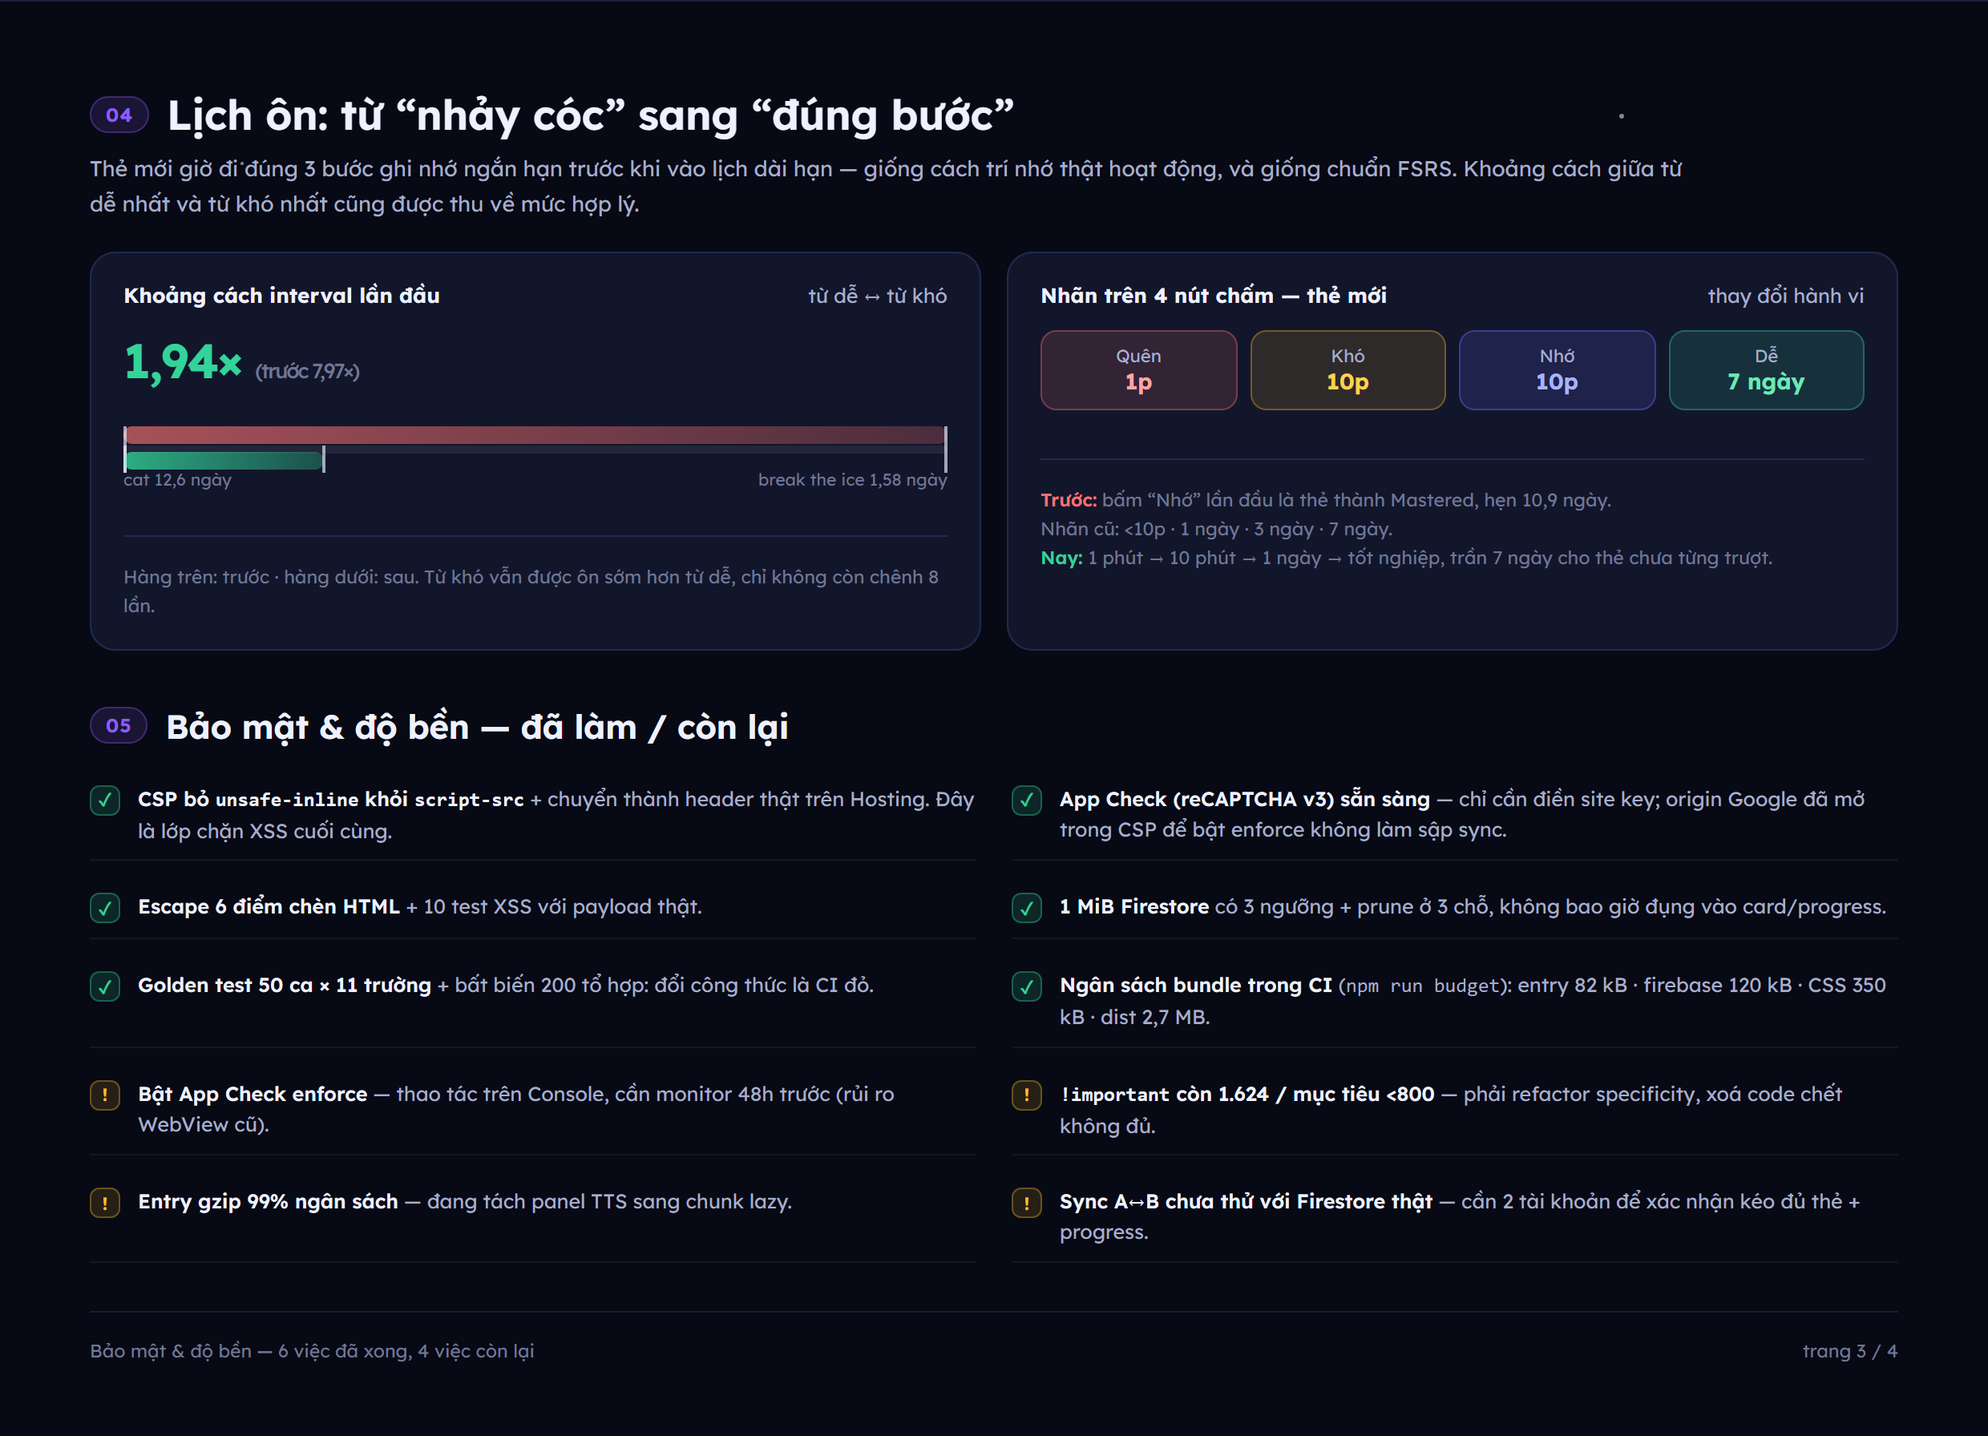
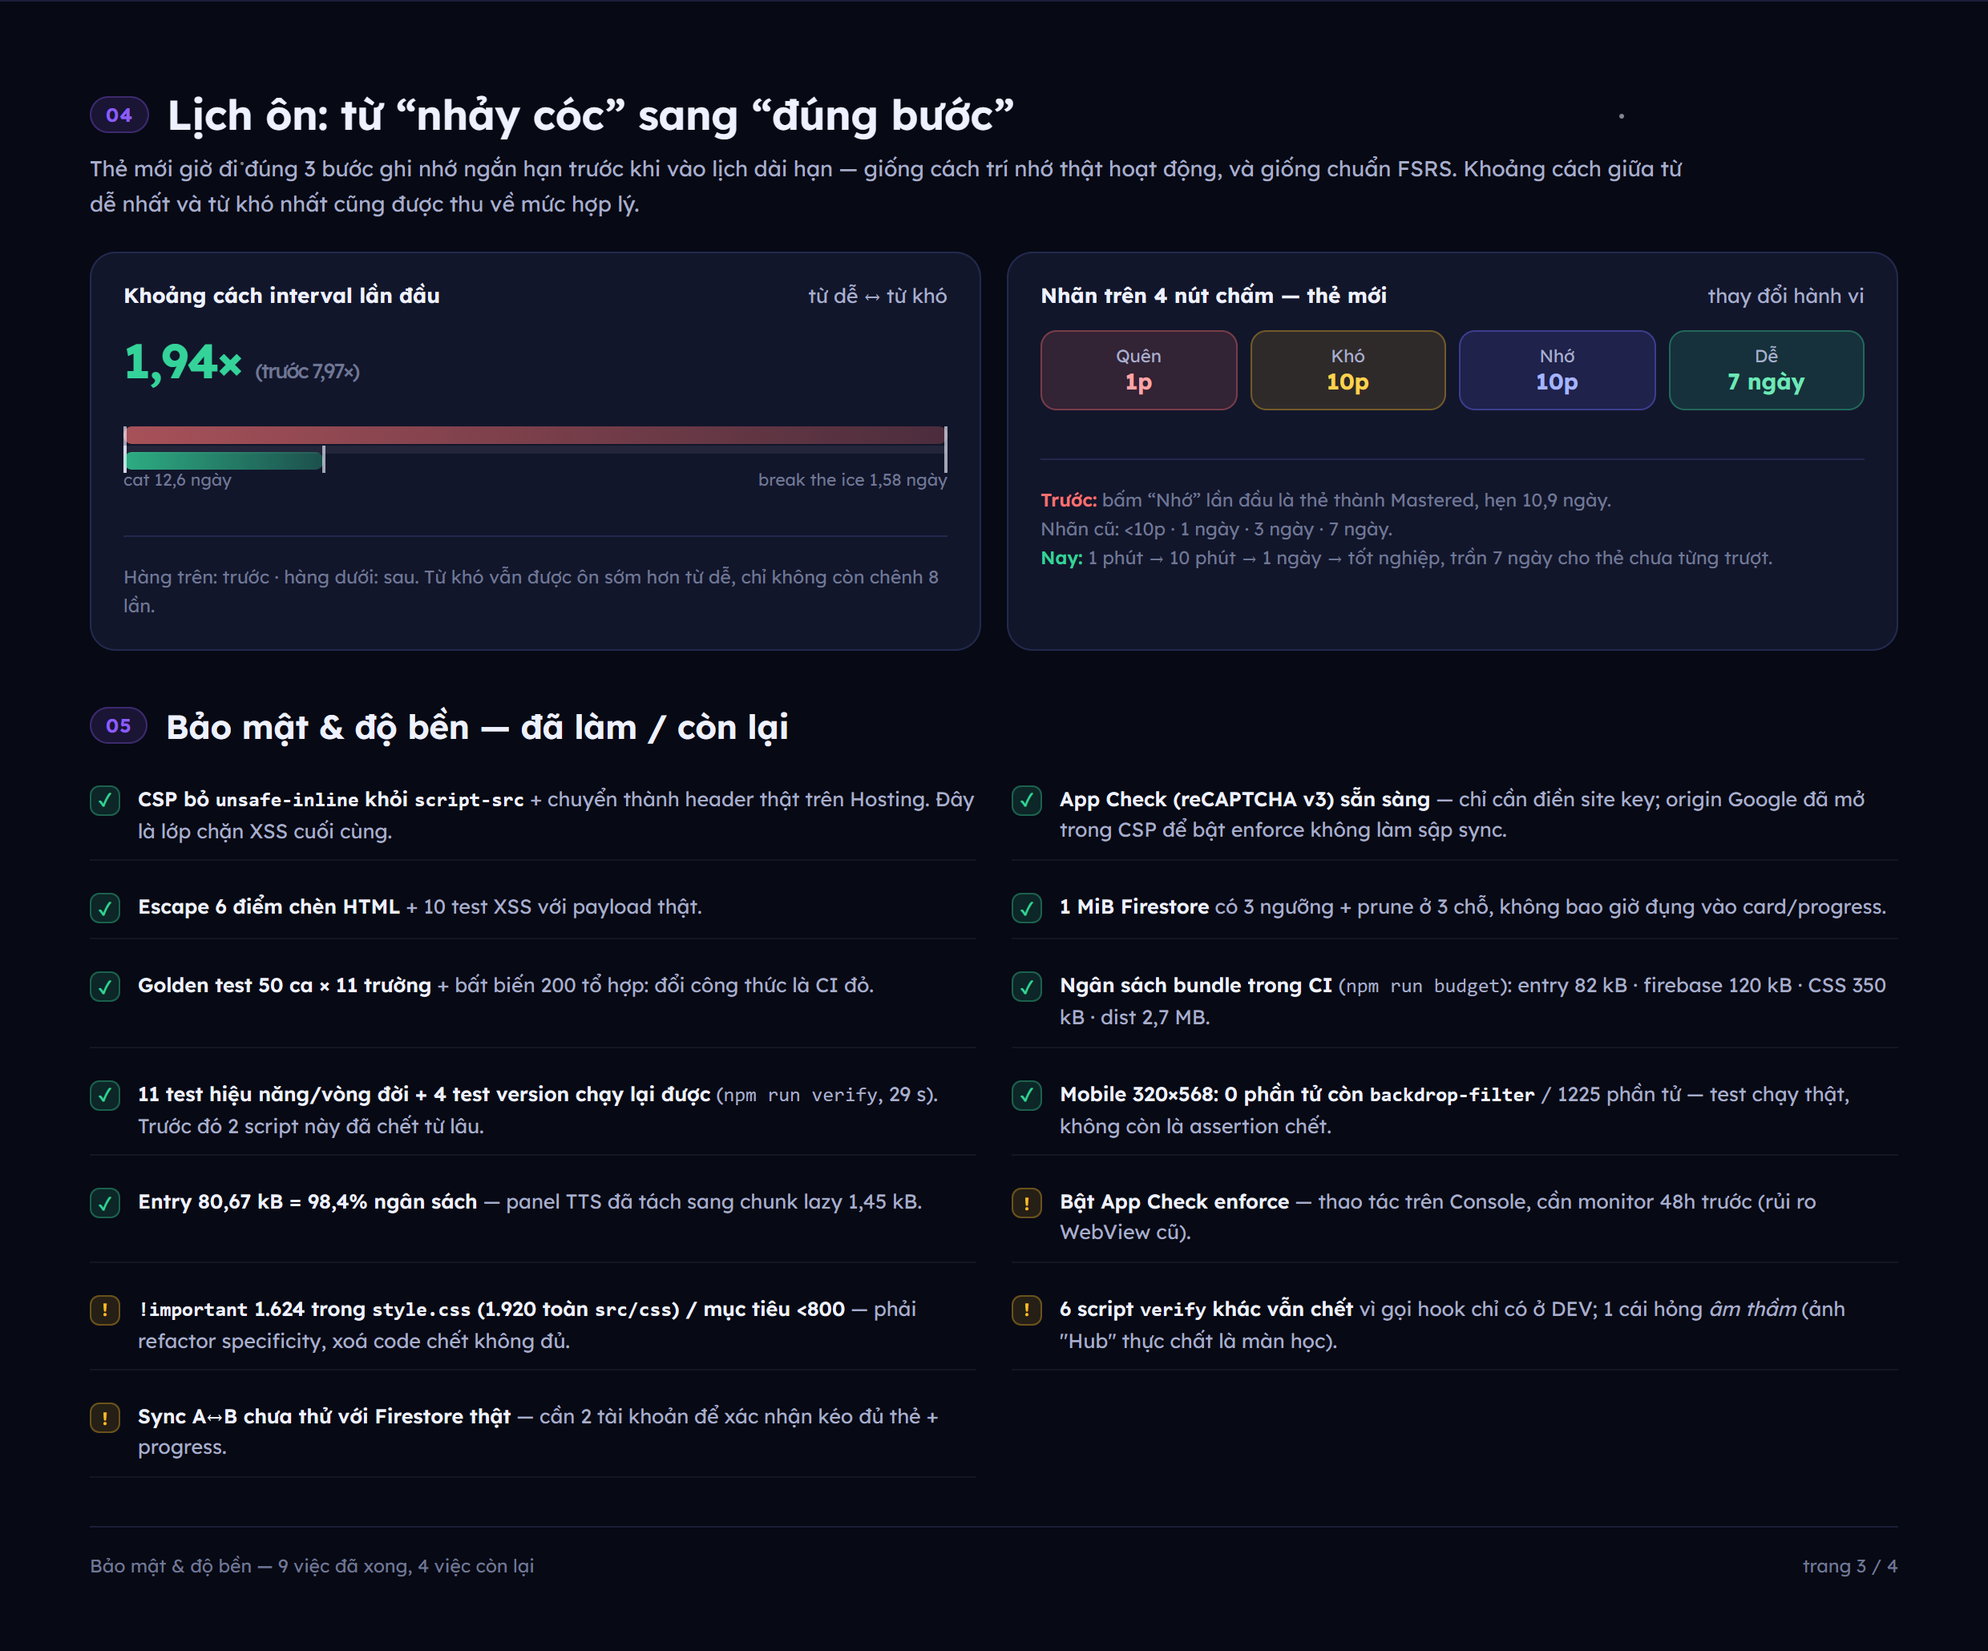
docs(report): cap nhat bao cao truc quan theo so lieu cuoi (18 commit, 203 test)
- Trang 1: 203 test (+75), bieu do test them cot 203; entry 76 -> 80,67 kB gzip
  (+6,1%, da tach panel TTS sang chunk lazy); precache 1.359 KiB; dist 2.096 KiB.
- Trang 3: bang bao mat 9 viec xong / 4 con lai, sap xep lai cho dung nhom.
  Them 3 muc da xong: npm run verify (11 + 4 test), mobile 320x568 0 phan tu con
  backdrop-filter tren 1225 phan tu (test nay truoc day CHET, nay chay that),
  entry 80,67 kB = 98,4% ngan sach. Them 1 muc con lai: 6 script verify khac van
  chet vi goi hook chi co o DEV.
- Trang 4: timeline 18 commit (them 678132a, cc3f65d, 7ec2465, c3f5a51, 1ce2457,
  e066222, 1476c29); muc "KHONG tuyen bo" cap nhat: entry +6,1% la chi phi tinh
  nang moi, 6 verifier khac chua sua.
- Sua 3 loi trinh bay tu phat hien khi xem anh: nhan trung tren bieu do test,
  tieu de ghi 5 loi trong khi co 6 the, va mot doan chu bi dan 2 cot do trung ten
  class .foot (page footer dung flex).

diff --git a/reports/upgrade-report.html b/reports/upgrade-report.html
@@ -154,28 +154,28 @@
     <div class="star" style="width:2px;height:2px;left:60px;top:330px;opacity:.3"></div>
 
     <div class="kicker"><span class="dot"></span> Báo cáo nâng cấp · 26/10/2026</div>
-    <h1>Ultimate Celestial Vocab<br><span class="grad">11 commit · 6 lỗi thật đã sửa · nhẹ hơn 14%</span></h1>
+    <h1>Ultimate Celestial Vocab<br><span class="grad">18 commit · 6 lỗi thật đã sửa · nhẹ hơn 14%</span></h1>
     <p class="sub">
         Mọi con số dưới đây là <b>đo được</b> (script trong repo hoặc Chrome headless), không phải ước lượng.
-        Mỗi thay đổi đều kèm test: từ <b>128</b> lên <b>195</b> test, và có golden test khoá toàn bộ engine FSRS
+        Mỗi thay đổi đều kèm test: từ <b>128</b> lên <b>203</b> test, và có golden test khoá toàn bộ engine FSRS
         để lần sau ai sửa công thức là CI đỏ ngay.
     </p>
 
     <div class="kpis">
         <div class="kpi" style="--c:var(--green)">
             <div class="label">Test tự động</div>
-            <div class="value">195 <small class="up">▲ +67</small></div>
-            <div class="note">128 → 142 → 166 → 195. Gồm 50 ca golden khoá 11 trường engine.</div>
+            <div class="value">203 <small class="up">▲ +75</small></div>
+            <div class="note">128 → 142 → 166 → 195 → 203. Gồm 50 ca golden khoá engine, 8 test a11y, 10 test TTS.</div>
         </div>
         <div class="kpi" style="--c:var(--cyan)">
             <div class="label">Precache PWA</div>
-            <div class="value">1.357 <small>KiB</small></div>
+            <div class="value">1.359 <small>KiB</small></div>
             <div class="note">Từ 1.906,7 KiB <span class="down">▼ 29%</span> — cài app nhẹ hơn ~549 KiB.</div>
         </div>
         <div class="kpi" style="--c:var(--violet)">
             <div class="label">Tổng bản build</div>
-            <div class="value">2.094 <small>KiB</small></div>
-            <div class="note">Từ 2.434,3 KiB <span class="down">▼ 14%</span> dù thêm App Check + TTS + self-host font.</div>
+            <div class="value">2.096 <small>KiB</small></div>
+            <div class="note">Từ 2.434,3 KiB <span class="down">▼ 14%</span> dù thêm App Check + TTS + self-host font + 6 test mới.</div>
         </div>
         <div class="kpi" style="--c:var(--amber)">
             <div class="label">Rủi ro mất dữ liệu</div>
@@ -217,7 +217,7 @@
                         <div class="bar before"><i style="width:100%"></i></div>
                         <div class="bar after"><i style="width:71.2%"></i></div>
                     </div>
-                    <div class="delta down">−29% <span style="color:var(--ink-faint);font-weight:400">1907→1357 KiB</span></div>
+                    <div class="delta down">−29% <span style="color:var(--ink-faint);font-weight:400">1907→1359 KiB</span></div>
                 </div>
                 <div class="row">
                     <div class="name"><b>Tổng dist</b>toàn bộ site</div>
@@ -225,7 +225,7 @@
                         <div class="bar before"><i style="width:100%"></i></div>
                         <div class="bar after"><i style="width:86%"></i></div>
                     </div>
-                    <div class="delta down">−14% <span style="color:var(--ink-faint);font-weight:400">2434→2094 KiB</span></div>
+                    <div class="delta down">−14% <span style="color:var(--ink-faint);font-weight:400">2434→2096 KiB</span></div>
                 </div>
                 <div class="row">
                     <div class="name"><b>reviewLogs (xấu nhất)</b>trần Firestore 1 MiB</div>
@@ -246,16 +246,16 @@
                 <div class="row">
                     <div class="name"><b>Entry JS (gzip)</b>chứa tính năng mới</div>
                     <div class="bars">
-                        <div class="bar before"><i style="width:93.4%"></i></div>
+                        <div class="bar before"><i style="width:94.2%"></i></div>
                         <div class="bar after"><i style="width:100%"></i></div>
                     </div>
-                    <div class="delta warn">+4,3% <span style="color:var(--ink-faint);font-weight:400">76→81,4 kB</span></div>
+                    <div class="delta warn">+6,1% <span style="color:var(--ink-faint);font-weight:400">76→80,7 kB</span></div>
                 </div>
             </div>
             <div class="legend">
                 <span><i style="background:linear-gradient(90deg,#f87171,#fb7185)"></i> trước nâng cấp</span>
                 <span><i style="background:linear-gradient(90deg,#22d3ee,#34d399)"></i> sau nâng cấp</span>
-                <span style="color:var(--ink-faint)">Dòng cuối là chỗ DUY NHẤT nặng lên — đang được tách chunk lazy.</span>
+                <span style="color:var(--ink-faint)">Dòng cuối là chỗ DUY NHẤT nặng lên — đã tách panel TTS sang chunk lazy, phần còn lại là chi phí tính năng mới.</span>
             </div>
         </div>
     </section>
@@ -268,7 +268,8 @@
                 <div class="step"><div class="val">128</div><div class="col" style="height:66px"></div><div class="cap">Baseline<br>trước nâng cấp</div></div>
                 <div class="step"><div class="val">142</div><div class="col" style="height:78px"></div><div class="cap">SRS leech<br>+ heuristics</div><span class="delta-tag">+14 test</span></div>
                 <div class="step"><div class="val">166</div><div class="col" style="height:100px"></div><div class="cap">Golden FSRS<br>+ dự báo 7 ngày</div><span class="delta-tag">+24 test</span></div>
-                <div class="step"><div class="val">195</div><div class="col" style="height:123px"></div><div class="cap">reviewLogs 1 MiB<br>+ TTS</div><span class="delta-tag">+29 test</span></div>
+                <div class="step"><div class="val">195</div><div class="col" style="height:118px"></div><div class="cap">reviewLogs 1 MiB<br>+ TTS</div><span class="delta-tag">+29 test</span></div>
+                <div class="step"><div class="val">203</div><div class="col" style="height:126px"></div><div class="cap">a11y P4<br>+ docs</div><span class="delta-tag">+8 test</span></div>
             </div>
         </div>
     </section>
@@ -425,14 +426,17 @@
             <div class="check"><span class="ic ok">✓</span><span><b>1 MiB Firestore</b> có 3 ngưỡng + prune ở 3 chỗ, không bao giờ đụng vào card/progress.</span></div>
             <div class="check"><span class="ic ok">✓</span><span><b>Golden test 50 ca × 11 trường</b> + bất biến 200 tổ hợp: đổi công thức là CI đỏ.</span></div>
             <div class="check"><span class="ic ok">✓</span><span><b>Ngân sách bundle trong CI</b> (<code>npm run budget</code>): entry 82 kB · firebase 120 kB · CSS 350 kB · dist 2,7 MB.</span></div>
+            <div class="check"><span class="ic ok">✓</span><span><b>11 test hiệu năng/vòng đời + 4 test version chạy lại được</b> (<code>npm run verify</code>, 29 s). Trước đó 2 script này đã chết từ lâu.</span></div>
+            <div class="check"><span class="ic ok">✓</span><span><b>Mobile 320×568: 0 phần tử còn <code>backdrop-filter</code></b> / 1225 phần tử — test chạy thật, không còn là assertion chết.</span></div>
+            <div class="check"><span class="ic ok">✓</span><span><b>Entry 80,67 kB = 98,4% ngân sách</b> — panel TTS đã tách sang chunk lazy 1,45 kB.</span></div>
             <div class="check"><span class="ic todo">!</span><span><b>Bật App Check enforce</b> — thao tác trên Console, cần monitor 48h trước (rủi ro WebView cũ).</span></div>
-            <div class="check"><span class="ic todo">!</span><span><b><code>!important</code> còn 1.624 / mục tiêu &lt;800</b> — phải refactor specificity, xoá code chết không đủ.</span></div>
-            <div class="check"><span class="ic todo">!</span><span><b>Entry gzip 99% ngân sách</b> — đang tách panel TTS sang chunk lazy.</span></div>
+            <div class="check"><span class="ic todo">!</span><span><b><code>!important</code> 1.624 trong <code>style.css</code> (1.920 toàn <code>src/css</code>) / mục tiêu &lt;800</b> — phải refactor specificity, xoá code chết không đủ.</span></div>
+            <div class="check"><span class="ic todo">!</span><span><b>6 script <code>verify</code> khác vẫn chết</b> vì gọi hook chỉ có ở DEV; 1 cái hỏng <i>âm thầm</i> (ảnh &quot;Hub&quot; thực chất là màn học).</span></div>
             <div class="check"><span class="ic todo">!</span><span><b>Sync A↔B chưa thử với Firestore thật</b> — cần 2 tài khoản để xác nhận kéo đủ thẻ + progress.</span></div>
         </div>
     </section>
 
-    <div class="foot"><span>Bảo mật &amp; độ bền — 6 việc đã xong, 4 việc còn lại</span><span>trang 3 / 4</span></div>
+    <div class="foot"><span>Bảo mật &amp; độ bền — 9 việc đã xong, 4 việc còn lại</span><span>trang 3 / 4</span></div>
 </div>
 
 <!-- ══════════════════════ PAGE 4 ══════════════════════ -->
@@ -455,7 +459,7 @@
     </section>
 
     <section>
-        <h2><span class="num">07</span> 11 commit, theo đúng thứ tự đã làm</h2>
+        <h2><span class="num">07</span> 18 commit, theo đúng thứ tự đã làm</h2>
         <div class="tl">
             <div class="item"><div class="sha">2390c23</div><div class="rail"><div class="node"></div></div>
                 <div class="body"><div class="t">Backup 3 lớp + backlog 36 task</div>
@@ -501,17 +505,46 @@
                 <div class="body"><div class="t">T2.4 + T2.5 — chặn trần 1 MiB + TTS minh bạch</div>
                 <div class="d">reviewLogs xấu nhất 1.180 → 330 KB; chọn giọng/tốc độ, badge nguồn, fallback một lần/phiên.</div>
                 <div class="m">+29 test</div></div></div>
+            <div class="item"><div class="sha">678132a</div><div class="rail"><div class="node"></div></div>
+                <div class="body"><div class="t">Báo cáo trực quan 4 trang (chính là tài liệu này)</div>
+                <div class="d">HTML + <code>tools/render_report.mjs</code> render từng trang bằng Chrome headless, font dùng chính woff2 của app nên ảnh khớp sản phẩm.</div>
+                <div class="m">tái lập: npm run report</div></div></div>
+            <div class="item"><div class="sha">cc3f65d</div><div class="rail"><div class="node"></div></div>
+                <div class="body"><div class="t">Sửa build bị hỏng do BOM UTF-8</div>
+                <div class="d">Mình ghi <code>package.json</code> bằng PowerShell 5.1 <code>Set-Content -Encoding utf8</code> → dính BOM → <code>vite-plugin-pwa</code> chết vì <code>JSON.parse</code>. Quét 8 file tracked, strip sạch.</div>
+                <div class="m">npm run build xanh lại</div></div></div>
+            <div class="item"><div class="sha">7ec2465</div><div class="rail"><div class="node"></div></div>
+                <div class="body"><div class="t">P4 — 6 lỗi a11y &amp; responsive</div>
+                <div class="d">aria-label + aria-live, <code>lang="en"</code> 3 chỗ, focus sau khi lật chỉ khi bàn phím, nhãn mobile hết cắt, safe-area.</div>
+                <div class="m">+8 test</div></div></div>
+            <div class="item"><div class="sha">c3f5a51</div><div class="rail"><div class="node"></div></div>
+                <div class="body"><div class="t">Tách panel TTS sang chunk lazy</div>
+                <div class="d">Entry 81,38 → 80,67 kB gzip; chunk 1,45 kB. Chứng minh bằng cách <i>chặn request chunk</i>: app vẫn chạy, panel vắng, 1 cảnh báo.</div>
+                <div class="m">98,4% ngân sách (trước 99,2%)</div></div></div>
+            <div class="item"><div class="sha">1ce2457</div><div class="rail"><div class="node"></div></div>
+                <div class="body"><div class="t">P5 — viết lại README theo code thật</div>
+                <div class="d">19 khẳng định sai/lỗi thời được sửa (test 77→203, Google Fonts, power-law, trần 21 ngày, sync ±3 phút…) + <code>docs/SMOKE_TEST.md</code>.</div>
+                <div class="m">22/36 task có SHA</div></div></div>
+            <div class="item"><div class="sha">e066222</div><div class="rail"><div class="node"></div></div>
+                <div class="body"><div class="t">Sửa 2 câu ví dụ mẫu</div>
+                <div class="d">&quot;Courage is going on when you do not have strength.&quot; → &quot;Her resilience helped her rebuild a life after the flood.&quot;</div>
+                <div class="m">10/10 câu đã review</div></div></div>
+            <div class="item"><div class="sha">1476c29</div><div class="rail"><div class="node"></div></div>
+                <div class="body"><div class="t">Sửa 2 verifier đã chết từ lâu</div>
+                <div class="d">Thay hook chỉ-có-ở-DEV bằng thao tác UI thật; version lấy từ <code>dist/version.json</code>. Test mobile <code>backdrop-filter</code> nay chạy thật: 0 vi phạm / 1225 phần tử.</div>
+                <div class="m">npm run verify: 11 + 4 PASS</div></div></div>
         </div>
     </section>
 
     <div class="caveat">
         <b style="color:var(--ink-dim)">Những gì mình KHÔNG tuyên bố:</b> chưa test đồng bộ A↔B với Firestore thật (cần 2 tài khoản);
         chưa bật App Check enforce; screen reader thật (NVDA/VoiceOver) và iPhone thật chưa test;
-        đo hiệu năng trên máy thật chưa chạy lại sau các thay đổi. Entry bundle nặng thêm 4,3% gzip vì có thêm tính năng — đang tách lazy,
-        không phải đã xong.
+        đo hiệu năng trên máy thật chưa chạy lại sau các thay đổi. Entry bundle nặng thêm 6,1% gzip so với trước nâng cấp vì có thêm tính năng (đã tách
+        panel TTS, chặn trên là 82 kB). 6 script <code>verify</code> khác trong <code>tools/</code>
+        vẫn chết và chưa được sửa.
     </div>
 
-    <div class="foot"><span>Ultimate Celestial Vocab · 195/195 test · cây làm việc sạch</span><span>trang 4 / 4</span></div>
+    <div class="foot"><span>Ultimate Celestial Vocab · 203/203 test · npm run verify xanh · cây làm việc sạch</span><span>trang 4 / 4</span></div>
 </div>
 
 </body>
